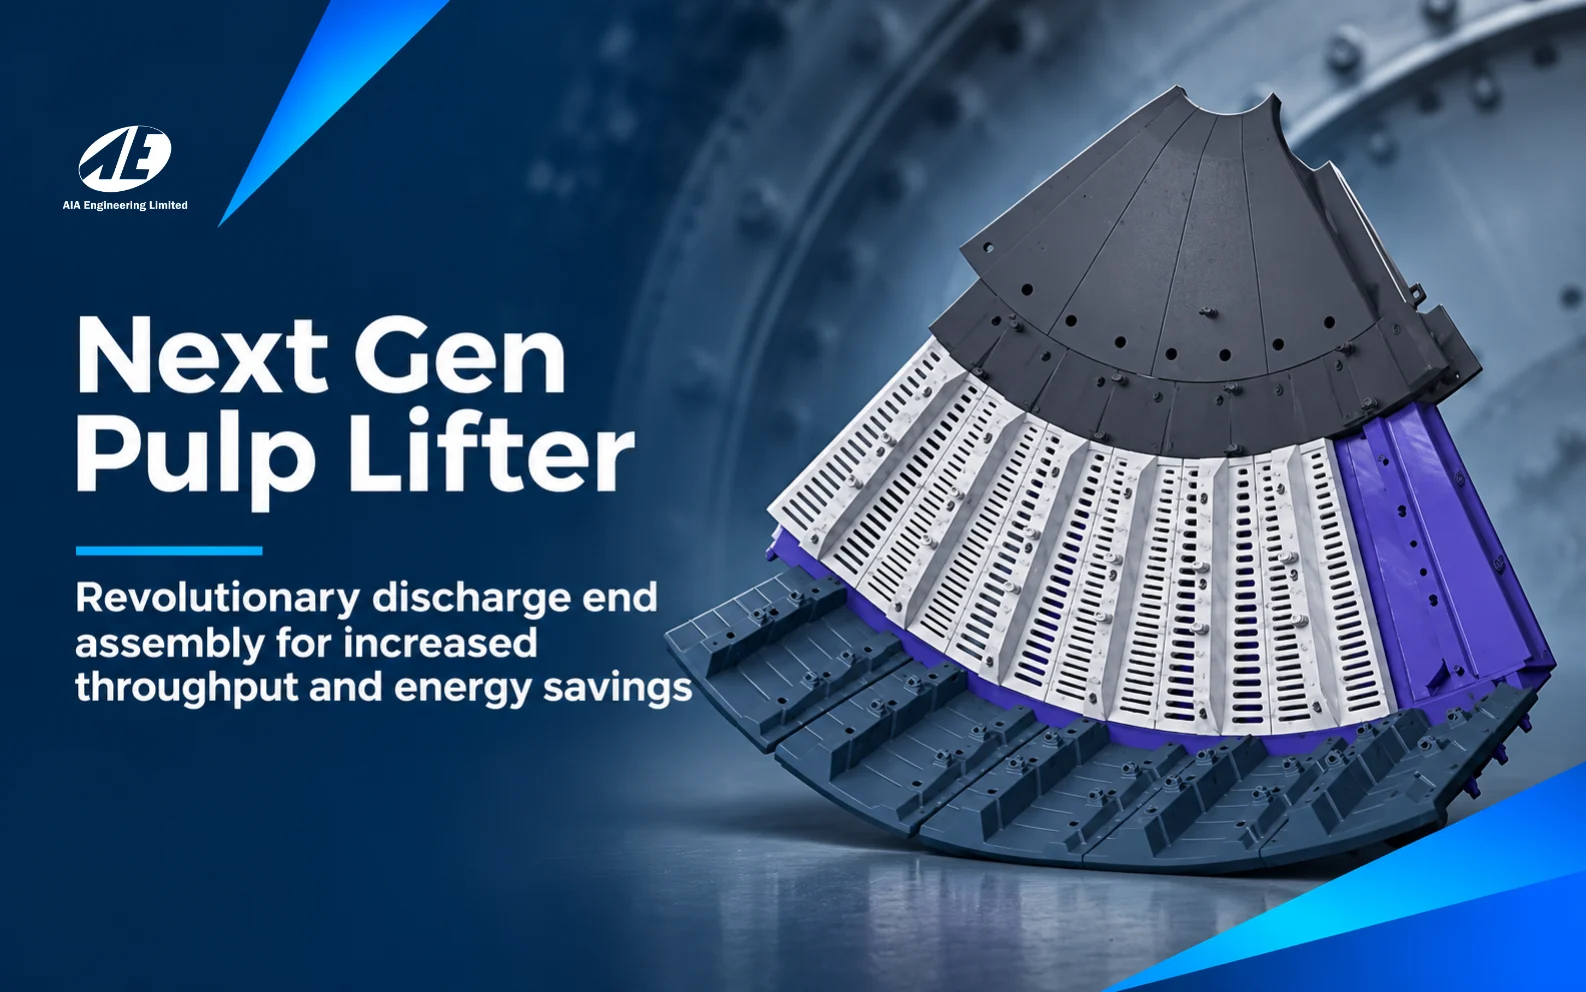
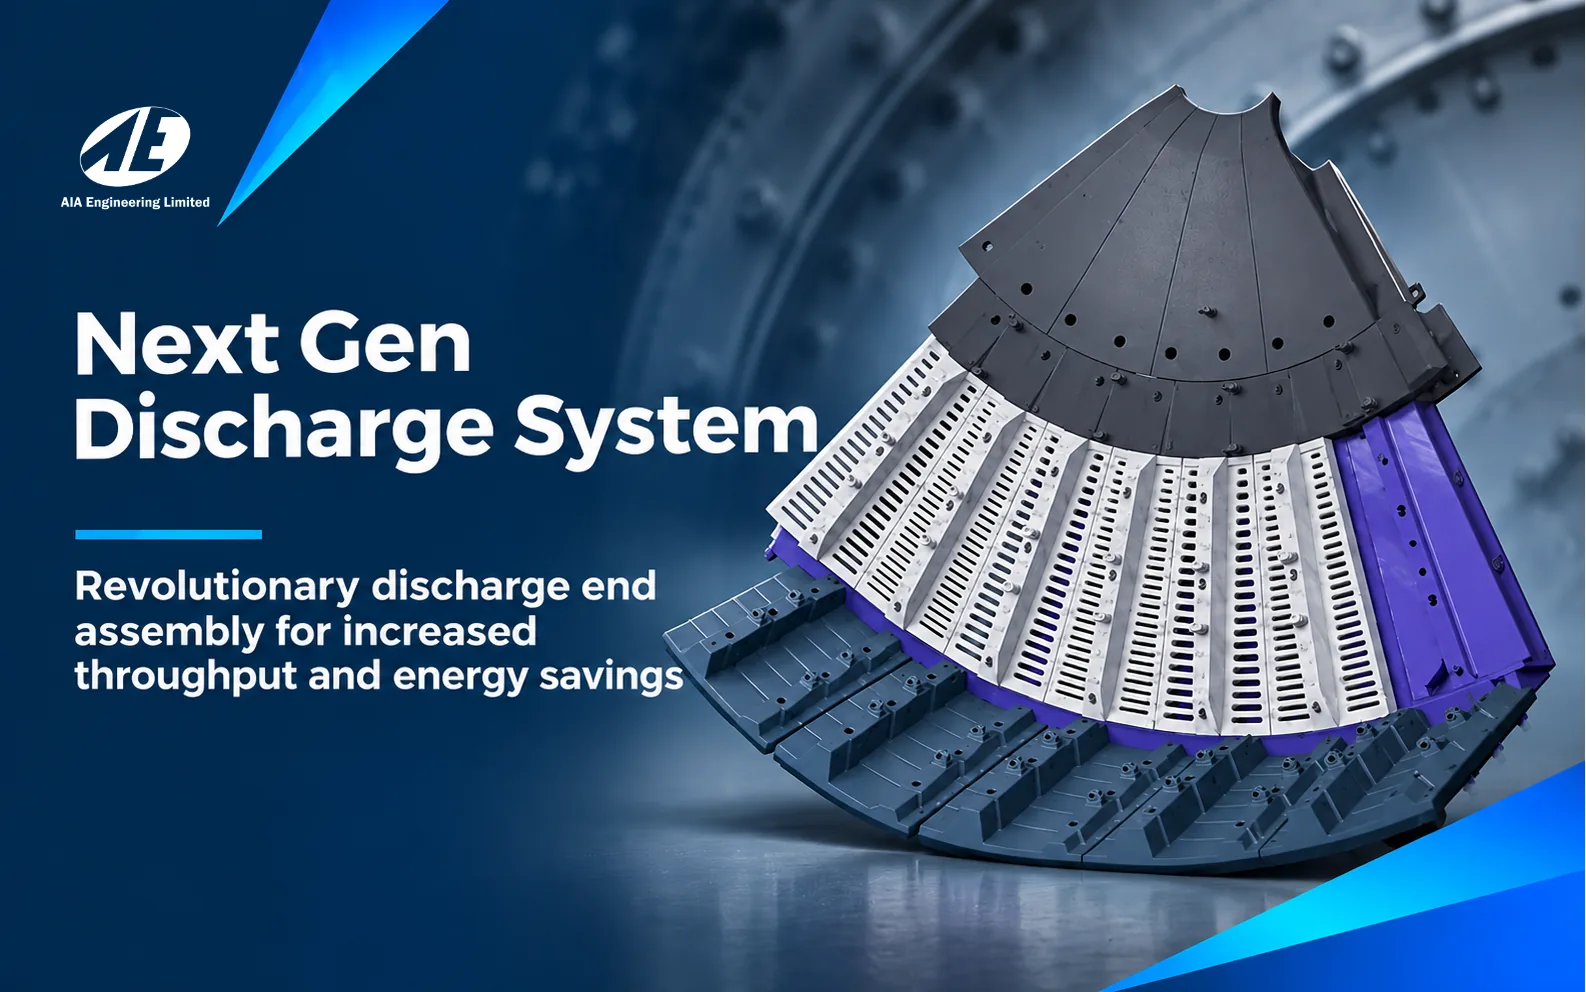
feat(gallery): updated thumbnails for all five films; Next Gen card renamed to Next Gen Discharge System
Overview subtitle now reads comminution; SAG Mill subtitle spelling corrected.

diff --git a/src/components/home/Gallery.tsx b/src/components/home/Gallery.tsx
@@ -21,7 +21,7 @@ type Film = {
 /** The five gallery films (AIA / Vega YouTube), each with its own designed thumbnail. */
 const films: readonly Film[] = [
   { id: "ball-mill-conversion", title: "Ball Mill Conversion: Overflow to Grate Discharge", poster: "/images/gallery-ball-mill-conversion.webp", youtube: "fJ40WB2JAqc" },
-  { id: "next-gen-pulp-lifter", title: "Next Gen Pulp Lifter", poster: "/images/gallery-next-gen-pulp-lifter.webp", youtube: "Ewxm_uvmJSE" },
+  { id: "next-gen-pulp-lifter", title: "Next Gen Discharge System", poster: "/images/gallery-next-gen-pulp-lifter.webp", youtube: "Ewxm_uvmJSE" },
   { id: "ball-mill-lining", title: "Ball Mill Lining Solutions", poster: "/images/gallery-ball-mill-lining.webp", youtube: "OXEIk649YxQ" },
   { id: "sag-mill-lining", title: "SAG Mill Lining Solutions", poster: "/images/gallery-sag-mill-lining.webp", youtube: "JF9CuGzbreA" },
   { id: "corporate-film", title: "AIA Corporate Film", poster: "/images/gallery-aia-overview.webp", youtube: "9d147D3G4PA" },
